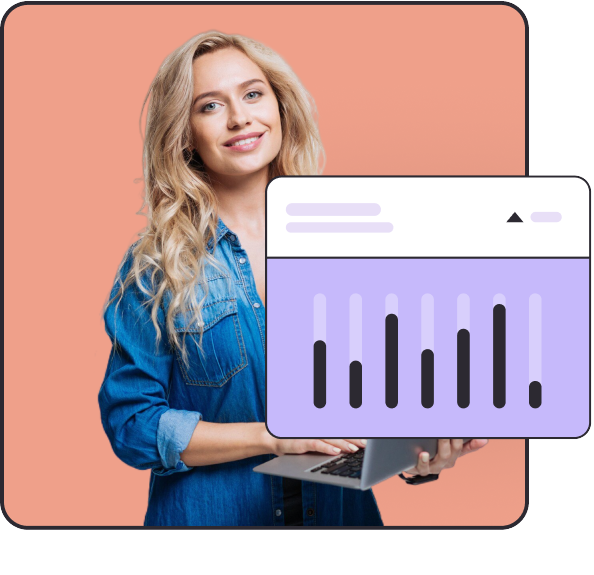
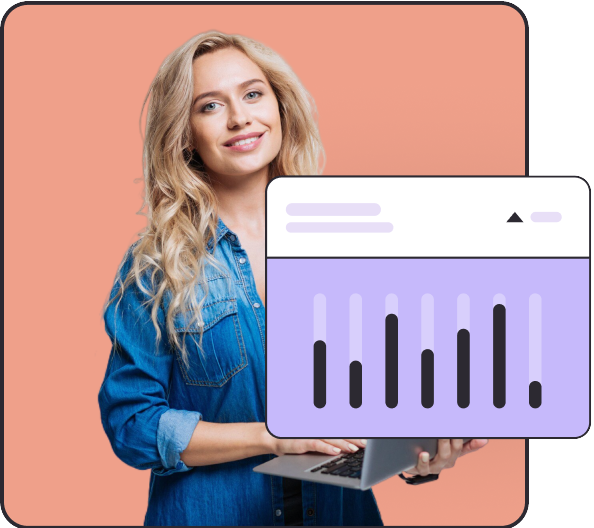
center aligned

diff --git a/style.css b/style.css
@@ -241,6 +241,8 @@ home-dropdown {
 }
 .image {
   overflow: hidden;
+  display: flex;
+  align-items: center;
 }
 .section-img-2 {
   width: 100%;
